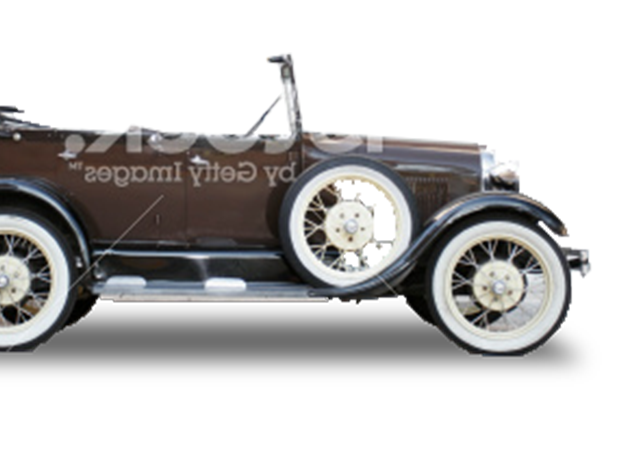
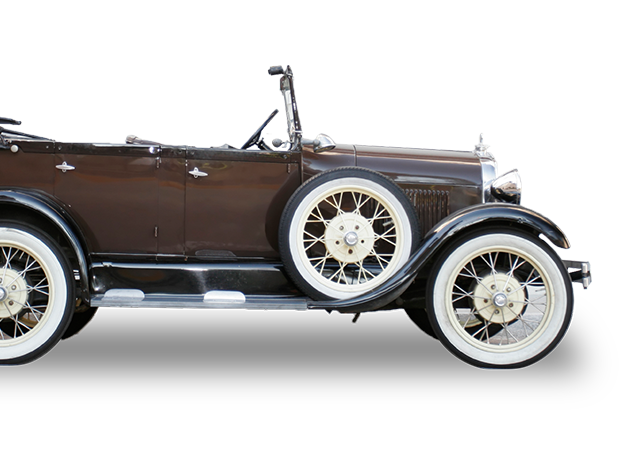
add new hi-res photos and tweak padding on blocks

diff --git a/wp-content/themes/Paradox/assets/scss/partials/_modules.scss b/wp-content/themes/Paradox/assets/scss/partials/_modules.scss
@@ -705,8 +705,8 @@ background: #000000;
 
 .block { 
     background-color: $brand-primary; 
-    padding-top: 140px;
-    padding-bottom: 140px;
+    padding-top: 100px;
+    padding-bottom: 100px;
     position: relative;
 }
 .bg-light { background-color: #f3f3f3; color: #3B3C42; }

diff --git a/wp-content/themes/Paradox/style.css b/wp-content/themes/Paradox/style.css
@@ -10868,8 +10868,8 @@ body .gform_wrapper .gform_footer {
 /* line 706, ../scss/partials/_modules.scss */
 .block {
   background-color: #1a2734;
-  padding-top: 140px;
-  padding-bottom: 140px;
+  padding-top: 100px;
+  padding-bottom: 100px;
   position: relative;
 }
 

diff --git a/wp-content/themes/Paradox/footer.php b/wp-content/themes/Paradox/footer.php
@@ -34,10 +34,11 @@
 			        	</div>	        	
 			        	<div class="col-md-4 text-center">
 			        		<ul class="list-inline">
-			        			<li><a href="#" title="Google Plus"><i class="fa fa-google-plus fa-2x"></i></a></li>
-			        			<li><a href="#" title="Twitter"><i class="fa fa-twitter fa-2x"></i></a></li>
-			        			<li><a href="#" title="Facebook"><i class="fa fa-facebook fa-2x"></i></a></li>
-			        			<li><a href="#" title="LinkedIn"><i class="fa fa-linkedin fa-2x"></i></a></li>
+			        			<li><a href="https://plus.google.com/+GovictoryblueDEF" target="_blank" title="Google Plus"><i class="fa fa-google-plus fa-2x"></i></a></li>
+			        			<li><a href="https://twitter.com/victoryblue_def" target="_blank" title="Twitter"><i class="fa fa-twitter fa-2x"></i></a></li>
+			        			<li><a href="https://www.facebook.com/pages/Victory-Blue-DEF/231252883587702" target="_blank" title="Facebook"><i class="fa fa-facebook fa-2x"></i></a></li>
+			        			<li><a href="https://www.linkedin.com/company/1130377" target="_blank" title="LinkedIn"><i class="fa fa-linkedin fa-2x"></i></a></li>
+			        			<li><a href="https://www.youtube.com/VictoryBlueDEF" target="_blank" title="YouTube"><i class="fa fa-youtube fa-2x"></i></a></li>
 			        		</ul>
 			        	</div>
 		        		<div class="col-md-4">
